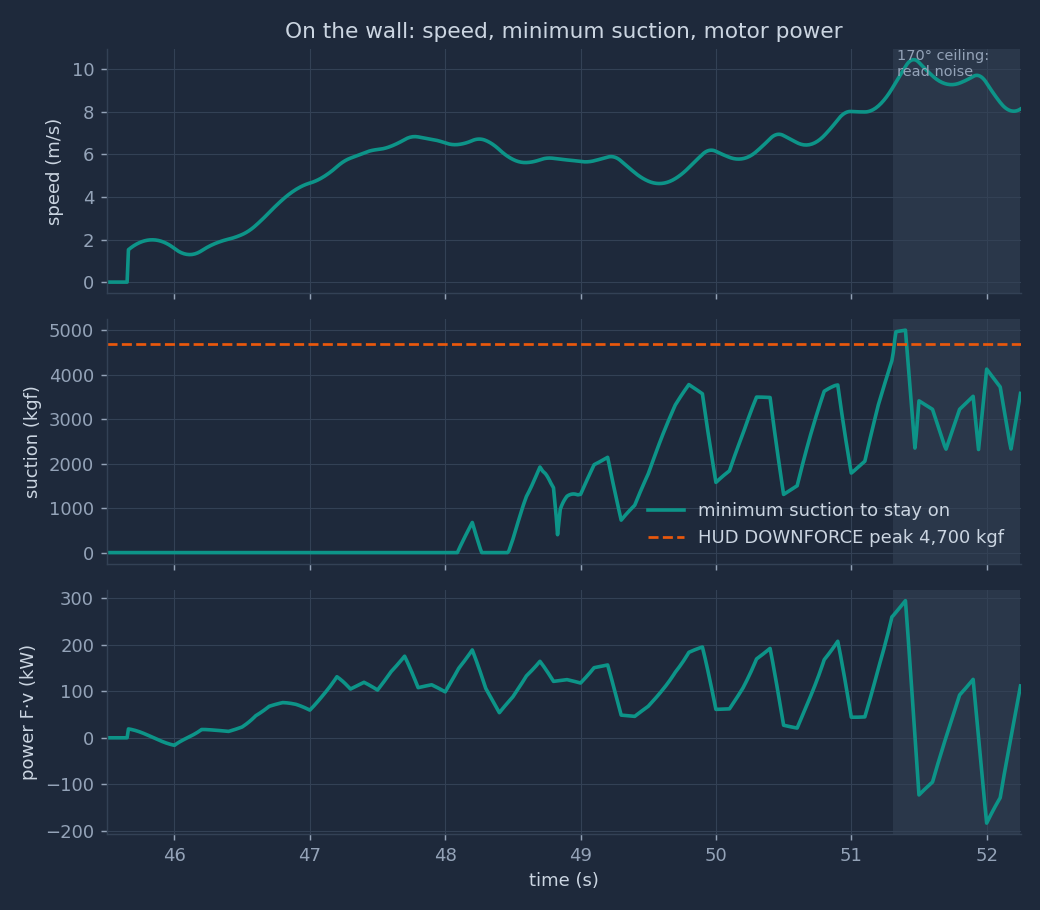
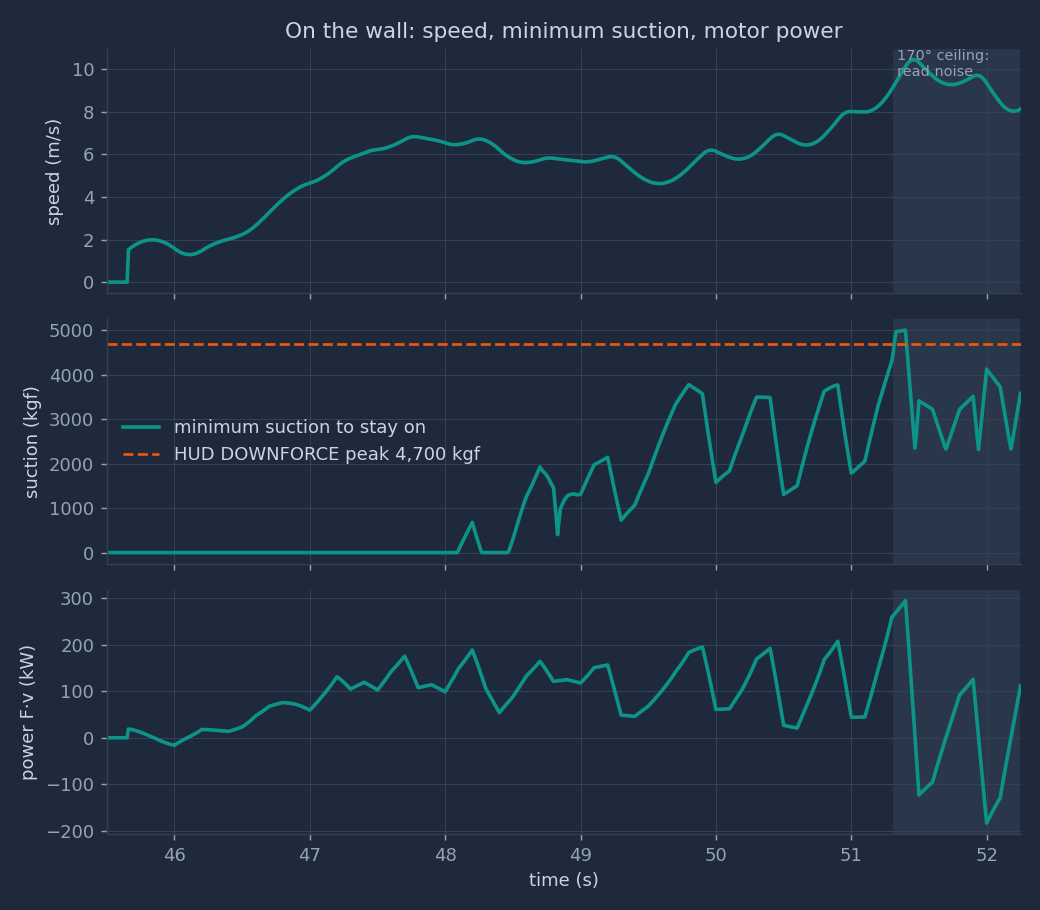
PHYSICS charts: move the suction legend off the curve
Claude-Session: https://claude.ai/code/session_01SydaMQnowT8RUr59p95ctc

Changed region(s): [[0.6154, 0.5538, 0.9538, 0.6154], [0.1231, 0.4615, 0.4615, 0.5231]]

diff --git a/out/physics/make_charts.py b/out/physics/make_charts.py
@@ -199,7 +199,7 @@ axs[0].set(ylabel="speed (m/s)", title="On the wall: speed, minimum suction, mot
 axs[1].plot(P1["t"], P1["F_s_min"] / S.G0, color=SIM, label="minimum suction to stay on")
 axs[1].axhline(S.SUCTION_MAX_KG, color=HUD, lw=1.5, ls="--", label="HUD DOWNFORCE peak 4,700 kgf")
 axs[1].set(ylabel="suction (kgf)")
-axs[1].legend(loc="lower right")
+axs[1].legend(loc="center left")
 axs[2].plot(P1["t"], P1["power"] / 1e3, color=SIM)
 axs[2].set(ylabel="power F·v (kW)", xlabel="time (s)", xlim=(45.5, S.T_RELEASE))
 for a in axs:
